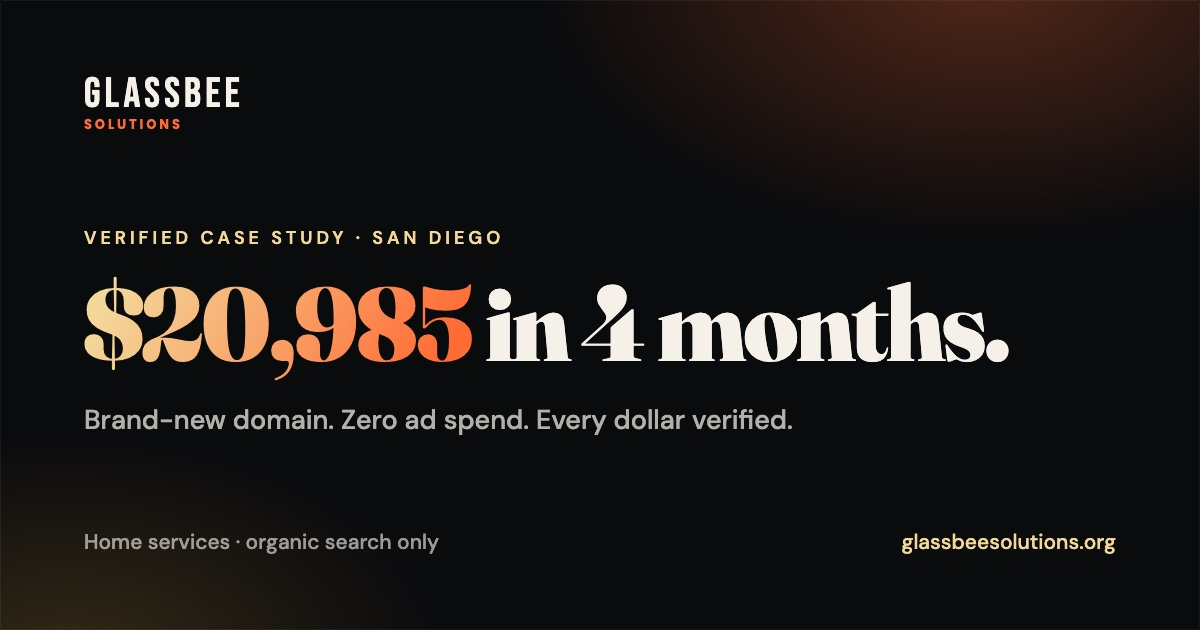
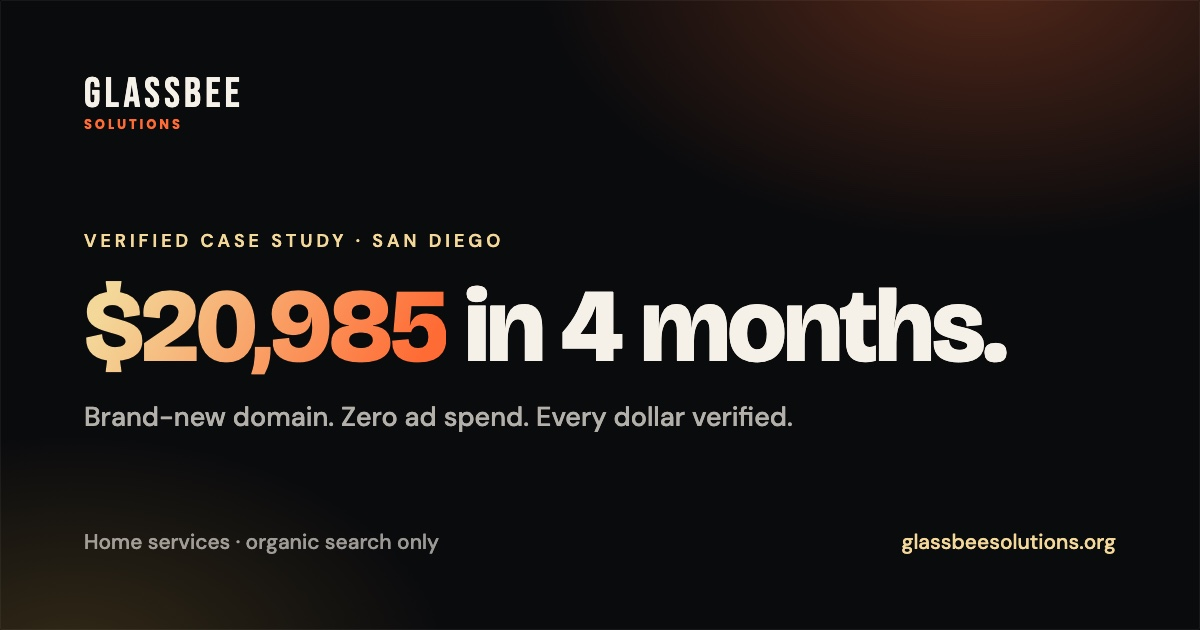
Headers to Bricolage Grotesque (non-cursive); Food Spectrum -> my vercel build
- Replaced Fraunces with Bricolage Grotesque across headers on both
  pages; removed italic from the gradient headline words and the
  kicker/mission/marquee so nothing reads cursive (kept real DM Sans
  italic on testimonial quotes)
- Regenerated OG cards in Bricolage
- Food Spectrum card now links my rebuild (food-spectrum.vercel.app) with
  a fresh screenshot and updated blurb

Changed region(s): [[0.0617, 0.4524, 0.8325, 0.6032], [0.0617, 0.6333, 0.6783, 0.6937], [0.0617, 0.3619, 0.4317, 0.3921]]

diff --git a/public/proof/index.html b/public/proof/index.html
@@ -17,7 +17,7 @@
 <meta name="twitter:title" content="Case Study: $20,985 in 4 months. Zero ad spend." />
 <meta name="twitter:description" content="Brand-new domain to a $4K to $5K monthly run rate from organic search. Verified." />
 <meta name="twitter:image" content="https://www.glassbeesolutions.org/og-proof.jpg" />
-<link href="https://fonts.googleapis.com/css2?family=Fraunces:ital,opsz,wght@0,9..144,700;0,9..144,900;1,9..144,700;1,9..144,900&family=DM+Sans:wght@300;400;500;600&family=Bebas+Neue&family=Poppins:wght@400;600;700&display=swap" rel="stylesheet">
+<link href="https://fonts.googleapis.com/css2?family=Bricolage+Grotesque:opsz,wght@12..96,600;12..96,700;12..96,800&family=DM+Sans:wght@300;400;500;600&family=Bebas+Neue&family=Poppins:wght@400;600;700&display=swap" rel="stylesheet">
 <style>
   *, *::before, *::after { box-sizing: border-box; margin: 0; padding: 0; }
 
@@ -35,7 +35,7 @@
     --gold-lt:  #B5781A;
     --orange:   #FF6B35;
     --green:    #2E9E63;
-    --serif:    'Fraunces', Georgia, serif;
+    --serif:    'Bricolage Grotesque', system-ui, sans-serif;
     --sans:     'DM Sans', system-ui, sans-serif;
     --ease:     cubic-bezier(0.16, 1, 0.3, 1);
     --accent:   linear-gradient(135deg, var(--gold) 0%, var(--orange) 100%);
@@ -152,10 +152,10 @@
   .eyebrow { display: inline-flex; align-items: center; gap: 12px; font-size: 12.5px; font-weight: 600; letter-spacing: 2px; text-transform: uppercase; margin-bottom: 24px; color: transparent; background: var(--accent); -webkit-background-clip: text; background-clip: text; }
   .eyebrow::before { content: ''; width: 26px; height: 2px; border-radius: 2px; background: var(--accent); }
   h1 { font-family: var(--serif); font-size: clamp(36px, 5.5vw, 58px); font-weight: 900; line-height: 1.14; letter-spacing: -1.5px; margin-bottom: 26px; max-width: 720px; text-wrap: balance; padding-bottom: 0.06em; }
-  h1 em { font-style: italic; color: transparent; background: var(--accent); -webkit-background-clip: text; background-clip: text; }
+  h1 em { font-style: normal; color: transparent; background: var(--accent); -webkit-background-clip: text; background-clip: text; }
   .hero-sub { font-size: 19px; color: var(--muted); max-width: 600px; line-height: 1.8; margin-bottom: 30px; }
   .hero-sub strong { color: var(--text); font-weight: 600; }
-  .hero-kicker { font-family: var(--serif); font-size: 21px; font-style: italic; font-weight: 700; color: var(--text); max-width: 600px; line-height: 1.5; margin-bottom: 32px; }
+  .hero-kicker { font-family: var(--serif); font-size: 21px; font-style: normal; font-weight: 700; color: var(--text); max-width: 600px; line-height: 1.5; margin-bottom: 32px; }
   .hero-proof { display: flex; align-items: center; gap: 18px; font-size: 14.5px; color: var(--muted); flex-wrap: wrap; }
   .dot-sep { color: var(--line-2); }
 
@@ -228,7 +228,7 @@
   /* QUOTE / MISSION CALLOUT */
   .quote-callout { background: linear-gradient(160deg, var(--panel-2), var(--panel)); border: 1px solid var(--line); border-radius: 16px; padding: 32px 36px; margin: 32px 0 0; position: relative; overflow: hidden; }
   .quote-callout::before { content: ''; position: absolute; top: 0; left: 0; right: 0; height: 3px; background: var(--accent); }
-  .quote-callout p { font-family: var(--serif); font-size: 20px; font-style: italic; font-weight: 700; color: var(--text); line-height: 1.55; }
+  .quote-callout p { font-family: var(--serif); font-size: 20px; font-style: normal; font-weight: 700; color: var(--text); line-height: 1.55; }
   .quote-callout.mission { background: linear-gradient(160deg, #1B1E25, #131519); border: 1px solid rgba(255,255,255,0.08); box-shadow: 0 24px 60px rgba(10,11,13,0.30); }
   .quote-callout.mission p { font-size: 19px; line-height: 1.6; color: #F5F0E8; }
   .quote-callout.mission cite { color: #F3D89A; }
